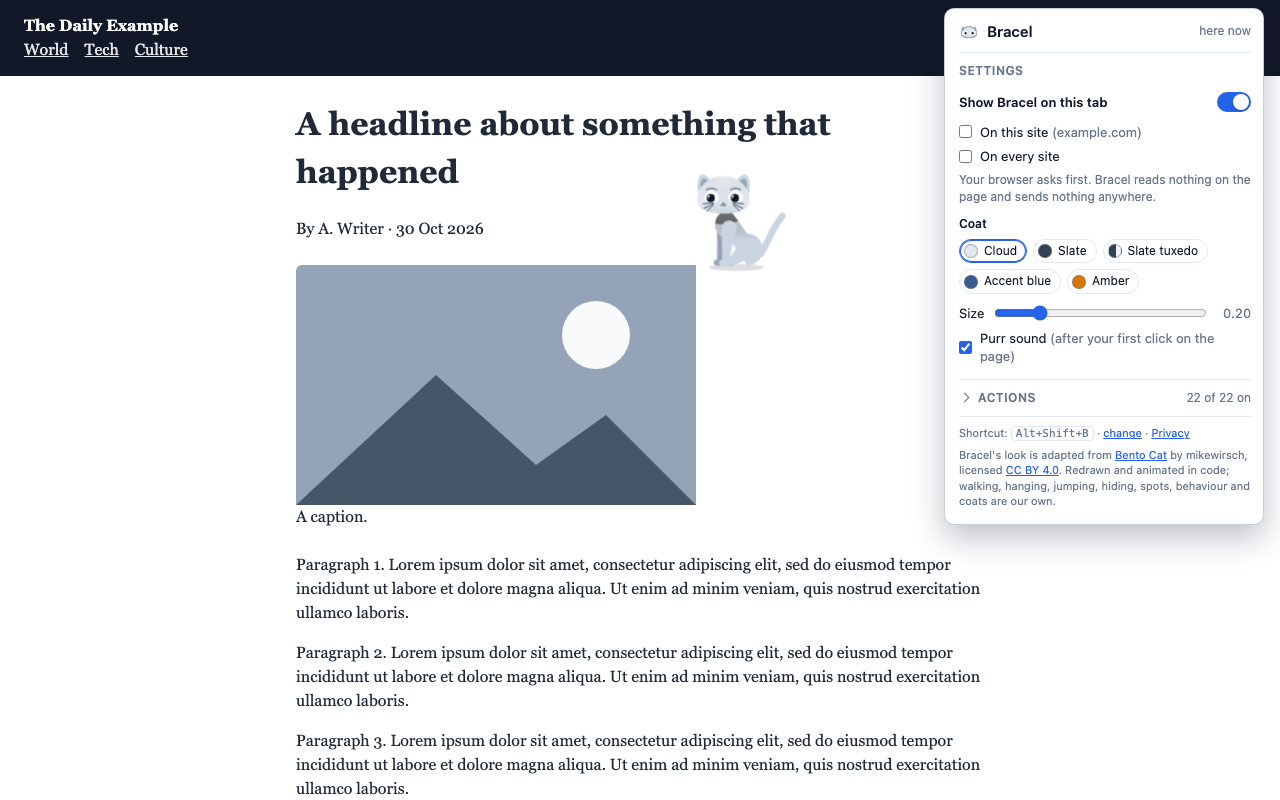
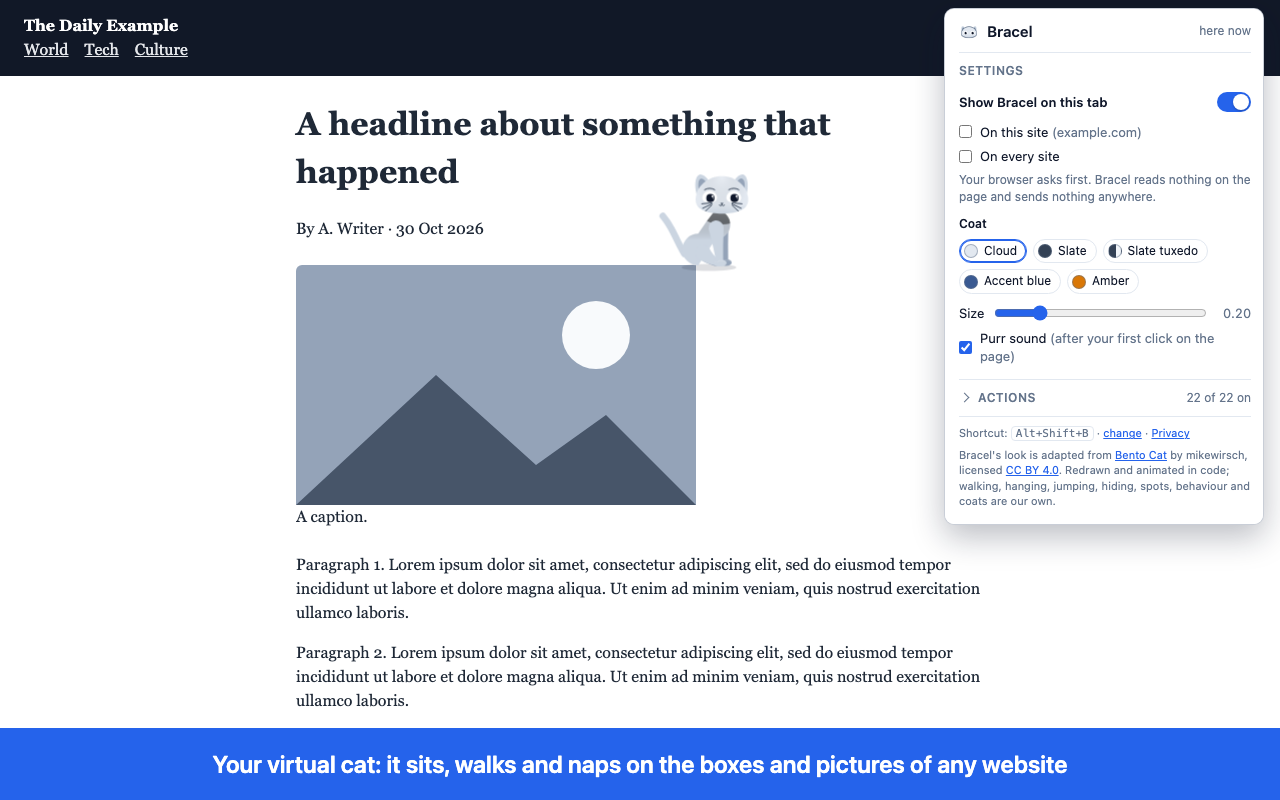
1.0.1: store search words, captioned screenshots, a build for every browser
- Store name "Bracel – Virtual Cat & Screen Pet", new summary and description aimed at what people search for
  (from the owner's SEO guide); captions on the five screenshots; website title, description and store link.
- npm run build makes dist/chrome, edge, opera, firefox and safari, plus dist/README.md.
- Firefox: background script instead of the service worker, add-on id, no data collected declared (web-ext lint clean);
  shared.js points chrome at the promise-based browser namespace.
- PUBLISHING.md: Edge, Firefox, Opera, Safari and other browsers. ROADMAP.md: Phase 7.

Changed region(s): [[0.0, 0.9062, 1.0, 1.0], [0.5, 0.2188, 0.625, 0.3438]]

diff --git a/site/index.html b/site/index.html
@@ -3,10 +3,10 @@
 <head>
 <meta charset="utf-8">
 <meta name="viewport" content="width=device-width,initial-scale=1">
-<title>Bracel: a cat for every website</title>
-<meta name="description" content="Bracel is a browser extension that puts a little cat on the edges of the websites you visit. It naps, grooms and purrs, and never gets in the way.">
-<meta property="og:title" content="Bracel: a cat for every website">
-<meta property="og:description" content="A little cat that lives on the edges of the websites you visit. Collects nothing, sends nothing.">
+<title>Bracel – Virtual Cat &amp; Screen Pet for Your Browser</title>
+<meta name="description" content="Bracel is a cute virtual cat and browser pet that walks, naps and purrs along the edges of any website, and never gets in the way. Free, private, no account.">
+<meta property="og:title" content="Bracel – Virtual Cat &amp; Screen Pet">
+<meta property="og:description" content="A cute virtual cat and browser pet that lives on the edges of the websites you visit. Collects nothing, sends nothing.">
 <meta property="og:image" content="https://bracel.saurabhpagrut.in/img/promo.png">
 <link rel="icon" href="/img/icon32.png">
 <link rel="stylesheet" href="/site.css">
@@ -22,9 +22,8 @@
     <h1>A cat for every website</h1>
     <p class="lede">Bracel lives on the edges of the pages you visit. It walks, naps, grooms and purrs, and never gets in the way. It's on this page right now.</p>
     <div class="cta">
-      <!-- STORE: replace the href with the Chrome Web Store listing URL once the extension is approved -->
-      <a class="btn primary" id="store" href="https://chromewebstore.google.com/search/Bracel">Add to Chrome</a>
-      <span class="small">Free · works in Chrome and Edge · no account</span>
+      <a class="btn primary" id="store" href="https://chromewebstore.google.com/detail/bracel-a-cat-for-every-we/diiopbiepmlejbbibggfhhdmnaeiehjf">Add to Chrome</a>
+      <span class="small">Free · works in Chrome, Brave and other Chromium browsers · no account</span>
     </div>
   </section>
 

diff --git a/src/background.js b/src/background.js
@@ -1,7 +1,8 @@
 /* The service worker. Tiny on purpose (guidelines §2): it shows "on" on the toolbar badge for tabs Bracel is on, brings
    Bracel to a tab or sends it away (toolbar popup, shortcut), and keeps one registered content script in step with the
    permissions the user granted: one origin per site switched on, or every site, minus the sites switched off. */
-importScripts("shared.js");
+// a service worker in Chrome and Edge; in Firefox a background script, with shared.js listed before it in the manifest
+if (typeof importScripts === "function") importScripts("shared.js");
 const B = globalThis.BRACEL, ID = "bracel";
 const FILES = B.FILES, AUTO = ["src/auto.js", ...FILES];
 

diff --git a/src/shared.js b/src/shared.js
@@ -1,5 +1,7 @@
 /* What the content script, the service worker and the popup agree on: the settings and their defaults, how a site is
    named, and the activity and coat lists the popup shows (the engine has its own copy; a test keeps them equal). */
+// Firefox and Safari: their promise-based `browser` is the same API, so the rest of the code can say `chrome` everywhere
+if (globalThis.browser && globalThis.browser.runtime && globalThis.chrome !== globalThis.browser) try { globalThis.chrome = globalThis.browser; } catch (_) {}
 globalThis.BRACEL = globalThis.BRACEL || {
   // chrome.storage.sync: settings that follow the user
   DEF: { coat: "cloud", size: 0.2, sound: true, acts: [] },

diff --git a/PUBLISHING.md b/PUBLISHING.md
@@ -1,6 +1,7 @@
 # Publishing Bracel
 
-How to put the website live and the extension in the Chrome Web Store, and how to ship an update. The listing text
+How to put the website live and the extension in the Chrome Web Store, Edge, Firefox, Opera and Safari, and how to ship
+an update. The listing text
 and the assets are in `store/LISTING.md`; the plan is in `ROADMAP.md`.
 
 ## 1. Before anything
@@ -12,10 +13,10 @@ and the assets are in `store/LISTING.md`; the plan is in `ROADMAP.md`.
    ```sh
    npm ci && npx playwright install chromium
    npm test            # lint + all Playwright tests
-   npm run build       # dist/bracel-1.0.0/ and dist/bracel-1.0.0.zip
+   npm run build       # dist/<browser>/bracel-<browser>-<version>/ and .zip, plus dist/README.md (which goes where)
    npm run site        # dist/site/, the website
    ```
-4. `chrome://extensions` → Developer mode → **Load unpacked** → `dist/bracel-1.0.0/`. On a website: click the
+4. `chrome://extensions` → Developer mode → **Load unpacked** → `dist/chrome/bracel-chrome-<version>/`. On a website: click the
    toolbar icon (it opens the popup), switch on **Show Bracel on this tab**, change coat, size and sound, open
    **Actions** and press a ▶. Remove the unpacked copy afterwards so it doesn't clash with the store one.
 
@@ -60,7 +61,7 @@ because the store asks for the privacy policy URL.
 
 ### The item
 
-1. **Items → New item** → upload `dist/bracel-1.0.0.zip`.
+1. **Items → New item** → upload `dist/chrome/bracel-chrome-<version>.zip`.
 2. **Store listing** tab (text from `store/LISTING.md`):
    - Description: the "Description" section. Category: Lifestyle → Just for Fun. Language: English.
    - Store icon: `icons/icon128.png`.
@@ -86,20 +87,62 @@ because the store asks for the privacy policy URL.
 ### After approval
 
 1. Copy the listing URL (`https://chromewebstore.google.com/detail/<name>/<id>`).
-2. Put it in `site/index.html` (the `#store` link, marked `STORE`), open a PR, merge: Cloudflare redeploys.
+2. Put it in `site/index.html` (the `#store` link), open a PR, merge: Cloudflare redeploys. (Done for 1.0.0 on 31 Oct
+   2026.)
 3. Tick the Phase 6 items in `ROADMAP.md`.
 
 ## 4. Microsoft Edge (optional, same zip)
 
-https://partner.microsoft.com/dashboard/microsoftedge → register (free) → **Create new extension** → upload the same
-zip, the same listing, the same privacy URL. Category: Entertainment.
+https://partner.microsoft.com/dashboard/microsoftedge → register (free) → **Create new extension** → upload
+`dist/edge/bracel-edge-<version>.zip` (the same files as Chrome), the same listing, the same privacy URL. Category:
+Entertainment.
 
-## 5. Shipping an update
+## 5. Firefox Add-ons (AMO)
+
+The Firefox package differs from Chrome's only in its manifest (made by `npm run build`): a background script instead
+of a service worker, the add-on id `bracel@saurabhpagrut.in` (never change it: it is how updates find the add-on), and
+the built-in data consent declaring that nothing is collected. It needs Firefox 140 or later.
+
+1. Check it: `npx web-ext lint -s dist/firefox/bracel-firefox-<version>` (0 errors, 0 warnings for 1.0.1), then try it in
+   Firefox: `about:debugging#/runtime/this-firefox` → **Load Temporary Add-on** → its `manifest.json`. Bring Bracel to
+   a tab, switch on "On this site" (Firefox asks for the permission), reload: it comes back by itself.
+2. https://addons.mozilla.org/developers/ → sign in with a Firefox account (free) → **Submit a New Add-on** → **On this
+   site** → upload `dist/firefox/bracel-firefox-<version>.zip`. Platforms: Firefox (desktop) only for now.
+3. Source code: answer **No** (nothing is minified or bundled; the package is the source).
+4. Listing: the same name, summary and description as `store/LISTING.md`. Category: Fun. Support site: the GitHub
+   issues URL. Privacy policy: paste the text of `PRIVACY.md`. Screenshots: the same five.
+5. Review is often automatic within hours; a human review can come later.
+
+## 6. Opera add-ons
+
+https://addons.opera.com/developer/ → sign in → **Upload new extension** → `dist/opera/bracel-opera-<version>.zip` (the
+same files as Chrome), the same listing. Category: Fun. Opera's review can take weeks; meanwhile Opera users can
+install from the Chrome Web Store.
+
+## 7. Safari (later; needs a Mac with Xcode and the Apple Developer Program, US$99 a year)
+
+`npm run build` leaves `dist/safari/bracel-safari-<version>/`. Turn it into a Mac app that carries the extension:
+
+```sh
+xcrun safari-web-extension-converter dist/safari/bracel-safari-<version> --app-name Bracel --bundle-identifier in.saurabhpagrut.bracel
+```
+
+Then in Xcode: set the team, run it to test (Safari → Settings → Advanced → Show features for web developers, then
+Develop → Allow unsigned extensions), archive, and submit through App Store Connect with the same listing.
+
+## Other browsers
+
+Brave, Vivaldi, Arc, Yandex and Naver Whale install extensions from the Chrome Web Store, so the Chrome listing
+already covers them. Firefox for Android and Samsung Internet (Galaxy Store) are possible later, after testing on a
+phone.
+
+## 8. Shipping an update
 
 1. Branch, change, `npm test`.
 2. Bump `version` in `manifest.json` **and** `package.json` (lint checks they match), and add a `CHANGELOG.md` entry.
 3. Visible change? `node scripts/screenshots.mjs` (with `npm run serve` running) and `npm run icons` if the look changed.
 4. PR, merge, then `npm run build`.
-5. Developer dashboard → the item → **Package** → **Upload new package** → the new zip → **Submit for review**.
-   Users get the update automatically after approval.
+5. In each store, upload that browser's zip from `dist/<browser>/`. Chrome: developer dashboard → the item →
+   **Package** → **Upload new package** → **Submit for review**. Edge, Firefox, Opera: the item → **Update** / **Upload
+   new version**. Users get the update automatically after approval.
 6. If `PRIVACY.md` changed, update its date; merging redeploys the website.

diff --git a/store/LISTING.md b/store/LISTING.md
@@ -1,28 +1,36 @@
-# Store listing (Chrome Web Store and Edge Add-ons)
+# Store listing (Chrome Web Store, Edge, Opera, Firefox)
 
-The same text for both stores. How to submit: `PUBLISHING.md`.
+The same text for every store. How to submit: `PUBLISHING.md`. The name and summary also live in `manifest.json`
+(the Chrome Web Store takes them from there), so change both together.
 
 | Asset | File | Where it goes |
 | --- | --- | --- |
 | Store icon 128×128 (96 px art, 16 px transparent padding) | `icons/icon128.png` | Store listing → Store icon |
-| Screenshots 1280×800 | `store/screenshot-1..5.png` (`node scripts/screenshots.mjs`) | Store listing → Screenshots, in order |
+| Screenshots 1280×800, captioned | `store/screenshot-1..5.png` (`node scripts/screenshots.mjs`) | Store listing → Screenshots, in order |
 | Small promo tile 440×280 | `store/promo-440x280.png` (`npm run icons`) | Store listing → Small promo tile |
 | Marquee 1400×560 (optional) | `store/marquee-1400x560.png` (`npm run icons`) | Store listing → Marquee promo tile |
 
-Screenshots, in order: 1 news page with the popup (Actions folded), 2 dashboard with Actions open, 3 hanging under a
-web app's top bar, 4 kneading on a dark site, 5 napping on a docs page.
+Screenshots, in order, with the caption drawn on each: 1 news page with the popup (Actions folded), 2 dashboard with
+Actions open, 3 hanging under a web app's top bar, 4 kneading on a dark site, 5 napping on a docs page.
+
+## Search words (31 Oct 2026, from the SEO guide)
+
+People search for what Bracel is, not for its name: **virtual pet**, **browser pet**, **desktop pet**, **virtual cat**,
+**cat pet**, **screen pet**, **screen companion**, **study companion**. The name, summary and first paragraph carry the
+main ones; the description uses the rest once each, in sentences. No keyword lists or repeats (stores demote them),
+and no other products' trademarks.
 
 ## Name
 
-Bracel: a cat for every website
+Bracel – Virtual Cat & Screen Pet
 
 ## Summary (132 characters max)
 
-A little cat that lives on the edges of the websites you visit. It naps, grooms and purrs, and never gets in the way.
+A cute virtual cat and browser pet that walks, naps, and purrs along the edges of any website without getting in your way.
 
 ## Category
 
-Lifestyle → Just for Fun (Chrome) · Entertainment (Edge)
+Lifestyle → Just for Fun (Chrome) · Entertainment (Edge, Opera) · Fun (Firefox)
 
 ## Single purpose (for the review form)
 
@@ -30,28 +38,37 @@ A cat that lives on the edges of the websites you visit.
 
 ## Description
 
-Bracel is a small, round cat that comes to live on the websites you visit.
+Meet Bracel, a cozy virtual cat and browser pet that lives on the websites you visit.
 
-It sits on the tops of boxes and pictures, walks along them, jumps from one to the next, hangs under headers, hides
-behind an edge and peeks out, grooms, kneads and purrs, chases a moth or a ball of yarn, and naps when you are busy.
-Stroke it with your pointer and it purrs. Click it three times and it gets annoyed. Wiggle the pointer above it and it
-pounces.
+Bracel is a small, round screen companion. It sits on the tops of boxes and pictures, walks along them, jumps from one
+to the next, hangs under headers, and hides behind an edge to peek out while you read, study or work. Like a desktop
+pet, but it lives in your browser.
 
-It never gets in the way:
-• It takes no clicks, no focus and no keys: everything goes through to the page.
-• It leaves when a dialog or menu opens, and keeps away from what you are typing in.
-• It stops completely in background tabs and sits still if you prefer reduced motion.
+Stroke it with your pointer and it purrs. Wiggle the pointer above it and it pounces. Click it three times and it gets
+annoyed. Leave it be and it grooms, kneads, chases a moth or a ball of yarn, or takes a nap.
+
+Never in the way:
+• Takes no clicks, no focus and no keys: every click goes through to the page.
+• Leaves when a dialog or menu opens, and keeps away from what you are typing in.
+• Stops completely in background tabs, and sits still if you prefer reduced motion.
+
+Make it yours:
+• Five coats: Cloud, Slate, Slate tuxedo, Accent blue and Amber, each with a dark-page version.
+• Any size from tiny to cozy, and a purr you can turn on or off.
+• Pick which of its 22 actions it does on its own; each has a ▶ button to see it now.
 
 You decide where it goes:
 • Click the toolbar button (or press Alt+Shift+B) to bring Bracel to the tab you are on.
 • Switch on "On this site" to have it come back by itself on that site.
 • Switch on "On every site" to have it visit everywhere, and switch it off on sites where you'd rather not see it.
 
-Pick its coat (Cloud, Slate, Slate tuxedo, Accent blue, Amber), its size, whether it purrs out loud, and which
-actions it does on its own (in the folded Actions list). Each action has a ▶ button to see it now.
+A calm companion for:
+• Studying and coding: a gentle study companion for long sessions.
+• Breaks: a small, cute pause while you read articles or browse.
+• Everyday browsing: a little life on every page.
 
-Private by design: Bracel collects nothing and sends nothing anywhere. No analytics, no network requests at all.
-Your settings stay in your browser.
+Private by design: Bracel collects nothing and sends nothing anywhere. No analytics, no tracking, no network requests
+at all. Your settings stay in your browser.
 
 Credit: Bracel's look is adapted from Bento Cat by mikewirsch (rive.app/marketplace/21131-39716-bento-cat), licensed
 CC BY 4.0 (creativecommons.org/licenses/by/4.0). Redrawn and animated in code; walking, hanging, jumping, hiding,

diff --git a/ROADMAP.md b/ROADMAP.md
@@ -14,7 +14,11 @@ and merge. Rules and limits are in `EXTENSION_GUIDELINES.md`; how to work is in 
 - [x] Release prep (30 Oct 2026): popup reshaped (Show switch, settings, folded Actions), website and privacy page
       (`site/`, `npm run site`), store icon padded to 96+16 px, marquee tile, screenshots with the popup.
 - [x] 30 Oct 2026: Bracel 1.0.0 submitted to the Chrome Web Store for review.
-- [ ] **Next:** wait for the review. On approval: the listing URL into `site/index.html` (`#store`), then Edge.
+- [x] 31 Oct 2026: 1.0.0 approved and live in the Chrome Web Store
+      (https://chromewebstore.google.com/detail/bracel-a-cat-for-every-we/diiopbiepmlejbbibggfhhdmnaeiehjf).
+- [x] 31 Oct 2026 (1.0.1): store search words (name, summary, description, captioned screenshots), and a build for
+      every store (`dist/chrome`, `edge`, `opera`, `firefox`, `safari`). See Phase 7.
+- [ ] **Next:** upload 1.0.1 to Chrome; submit to Edge and Firefox (Phase 7).
 
 ## Phase 0: decisions and setup (before any code)
 
@@ -96,13 +100,36 @@ Goal: Bracel finds good, safe places to be on real pages.
 - [ ] Website https://bracel.saurabhpagrut.in (Cloudflare Pages project `bracel`, bracel.pages.dev): landing page with
       Bracel on it, privacy page. After approval, point its "Add to Chrome" button at the listing.
 - [x] Chrome Web Store submission: 1.0.0 (`dist/bracel-1.0.0.zip`) submitted for review on 30 Oct 2026.
-- [ ] Chrome Web Store approval; then the listing URL on the website's "Add to Chrome" button.
-- [ ] Edge Add-ons submission (same package). Needs a Microsoft Partner Center account (owner).
+- [x] Chrome Web Store approval (31 Oct 2026); the listing URL is on the website's "Add to Chrome" button (1.0.1).
+- [ ] Edge Add-ons submission (`dist/edge/`). Needs a Microsoft Partner Center account (owner).
 - [ ] Link from Bracely's About page once it is live (a small Bracely PR, only after the extension is approved).
+
+## Phase 7: more stores, and being found (31 Oct 2026)
+
+From the owner's SEO guide (kept out of the repo, in `var/`) and a look at which browsers take extensions.
+
+- [x] Store text aimed at what people search for (virtual pet, browser pet, virtual cat, screen pet, desktop pet,
+      study companion): name "Bracel – Virtual Cat & Screen Pet", new summary and description (`store/LISTING.md`,
+      `manifest.json`). No keyword lists and no other products' trademarks.
+- [x] Captions on the five store screenshots (`scripts/screenshots.mjs`).
+- [x] Website title and description use the same words; "Add to Chrome" points at the listing.
+- [x] One build per browser: `npm run build` → `dist/<browser>/` and `dist/README.md`.
+- [x] Firefox package: background script, add-on id `bracel@saurabhpagrut.in`, no data collected declared, Firefox
+      140+. `web-ext lint`: 0 errors, 0 warnings.
+- [ ] Upload 1.0.1 to the Chrome Web Store (new name, summary, description and screenshots) (owner).
+- [ ] Try the Firefox package in Firefox, then submit it to AMO (owner; free Firefox account). `PUBLISHING.md` §5.
+- [ ] Edge (above) and Opera add-ons (`PUBLISHING.md` §6) (owner).
+- [ ] First honest reviews: share the listing with friends and colleagues; ask for real feedback (owner). No paid
+      or swapped reviews (store policy).
+- [ ] Share it: a short clip of Bracel on a page for Reddit (r/chrome_extensions, r/webdev with how it was made, cat
+      subreddits where self-promotion is allowed), short-video sites, and Product Hunt (owner).
+- [ ] Safari: needs Xcode and the Apple Developer Program (US$99 a year); `dist/safari/` is ready for Apple's converter.
+- [ ] Firefox for Android and Samsung Internet: only after trying Bracel on a phone (touch has no hover or pounce).
+
+Not separate stores: Brave, Vivaldi, Arc, Yandex and Naver Whale install from the Chrome Web Store.
 
 ## Later
 
-- [ ] Firefox (browser.* shim, gecko id), then Safari (Xcode converter).
 - [ ] "Follow me": when the pointer moves far away, Bracel travels along edges towards it and sits nearby (opt-in).
 - [ ] More coats; a coat that follows the site's own colours.
 - [ ] Shared engine: if Bracel changes in one place, decide whether Bracely and the extension share `engine.js`
@@ -124,6 +151,10 @@ Goal: Bracel finds good, safe places to be on real pages.
 - 30 Oct 2026: no bundler. The content script is four plain files injected in order (`BRACEL.FILES` in `src/shared.js`).
 - 30 Oct 2026: on any website Bracel keeps out of the site's header and menu bars, off buttons and links, and clear of
   fields to type in (focused or not), video players and frames; the bottom of the window is always a home.
+- 31 Oct 2026: the store name becomes "Bracel – Virtual Cat & Screen Pet" (people search for "virtual pet", not "a cat
+  for every website"); the website's headline stays "A cat for every website".
+- 31 Oct 2026: one source tree, one package per browser made by the build; no `browser.*` polyfill library, just one line
+  in `shared.js`.
 
 ## Open questions
 

diff --git a/EXTENSION_GUIDELINES.md b/EXTENSION_GUIDELINES.md
@@ -94,8 +94,10 @@ The new part. It must be cheap, cautious and boring.
 
 ## 8. Cross-browser
 
-- Chrome and Edge first (same package). Firefox next: use `browser.*` through a tiny shim, with `background.scripts` for
-  Firefox's MV3 and a `browser_specific_settings.gecko.id`. Safari later, through Xcode's converter.
+- One source, one package per browser (`npm run build`, `dist/<browser>/`). Chrome, Edge and Opera get the same files.
+  Firefox gets `background.scripts` instead of the service worker, a `browser_specific_settings.gecko.id` and the
+  "no data collected" declaration; `shared.js` points `chrome` at Firefox's and Safari's promise-based `browser`, so the
+  code says `chrome.*` everywhere. Safari: the same package through Xcode's converter.
 - No browser-specific APIs in the engine; only the host layer knows which browser it is in.
 
 ## 9. Store policy and listing

diff --git a/CHANGELOG.md b/CHANGELOG.md
@@ -1,6 +1,16 @@
 # Changelog
 
-## 1.0.0 (unreleased)
+## 1.0.1 (unreleased)
+
+- Store name and summary say what Bracel is, for people searching the stores: "Bracel – Virtual Cat & Screen Pet",
+  "A cute virtual cat and browser pet…". New description and captioned screenshots (`store/`).
+- Builds for every store: `npm run build` makes `dist/chrome/`, `dist/edge/`, `dist/opera/`, `dist/firefox/` and
+  `dist/safari/`, with `dist/README.md` saying which goes where.
+- Runs in Firefox 140+: a background script there instead of the service worker, and `chrome.*` calls go to Firefox's
+  `browser.*`.
+- Website: search title and description, and the "Add to Chrome" button points at the Chrome Web Store listing.
+
+## 1.0.0 (31 Oct 2026, Chrome Web Store)
 
 First version of Bracel for every website.
 

diff --git a/README.md b/README.md
@@ -33,7 +33,7 @@ The demo pages in `demo/` run the engine without the extension: `npm run serve` 
 npm install          # Playwright, for the tests only
 npm run lint         # syntax and policy checks (no eval, no network, no remote code)
 npm test             # all tests
-npm run build        # dist/bracel-<version>.zip for the stores
+npm run build        # dist/<browser>/ for Chrome, Edge, Opera, Firefox and Safari (dist/README.md says which goes where)
 npm run site         # dist/site/, the website (bracel.saurabhpagrut.in) with the privacy policy
 ```
 
